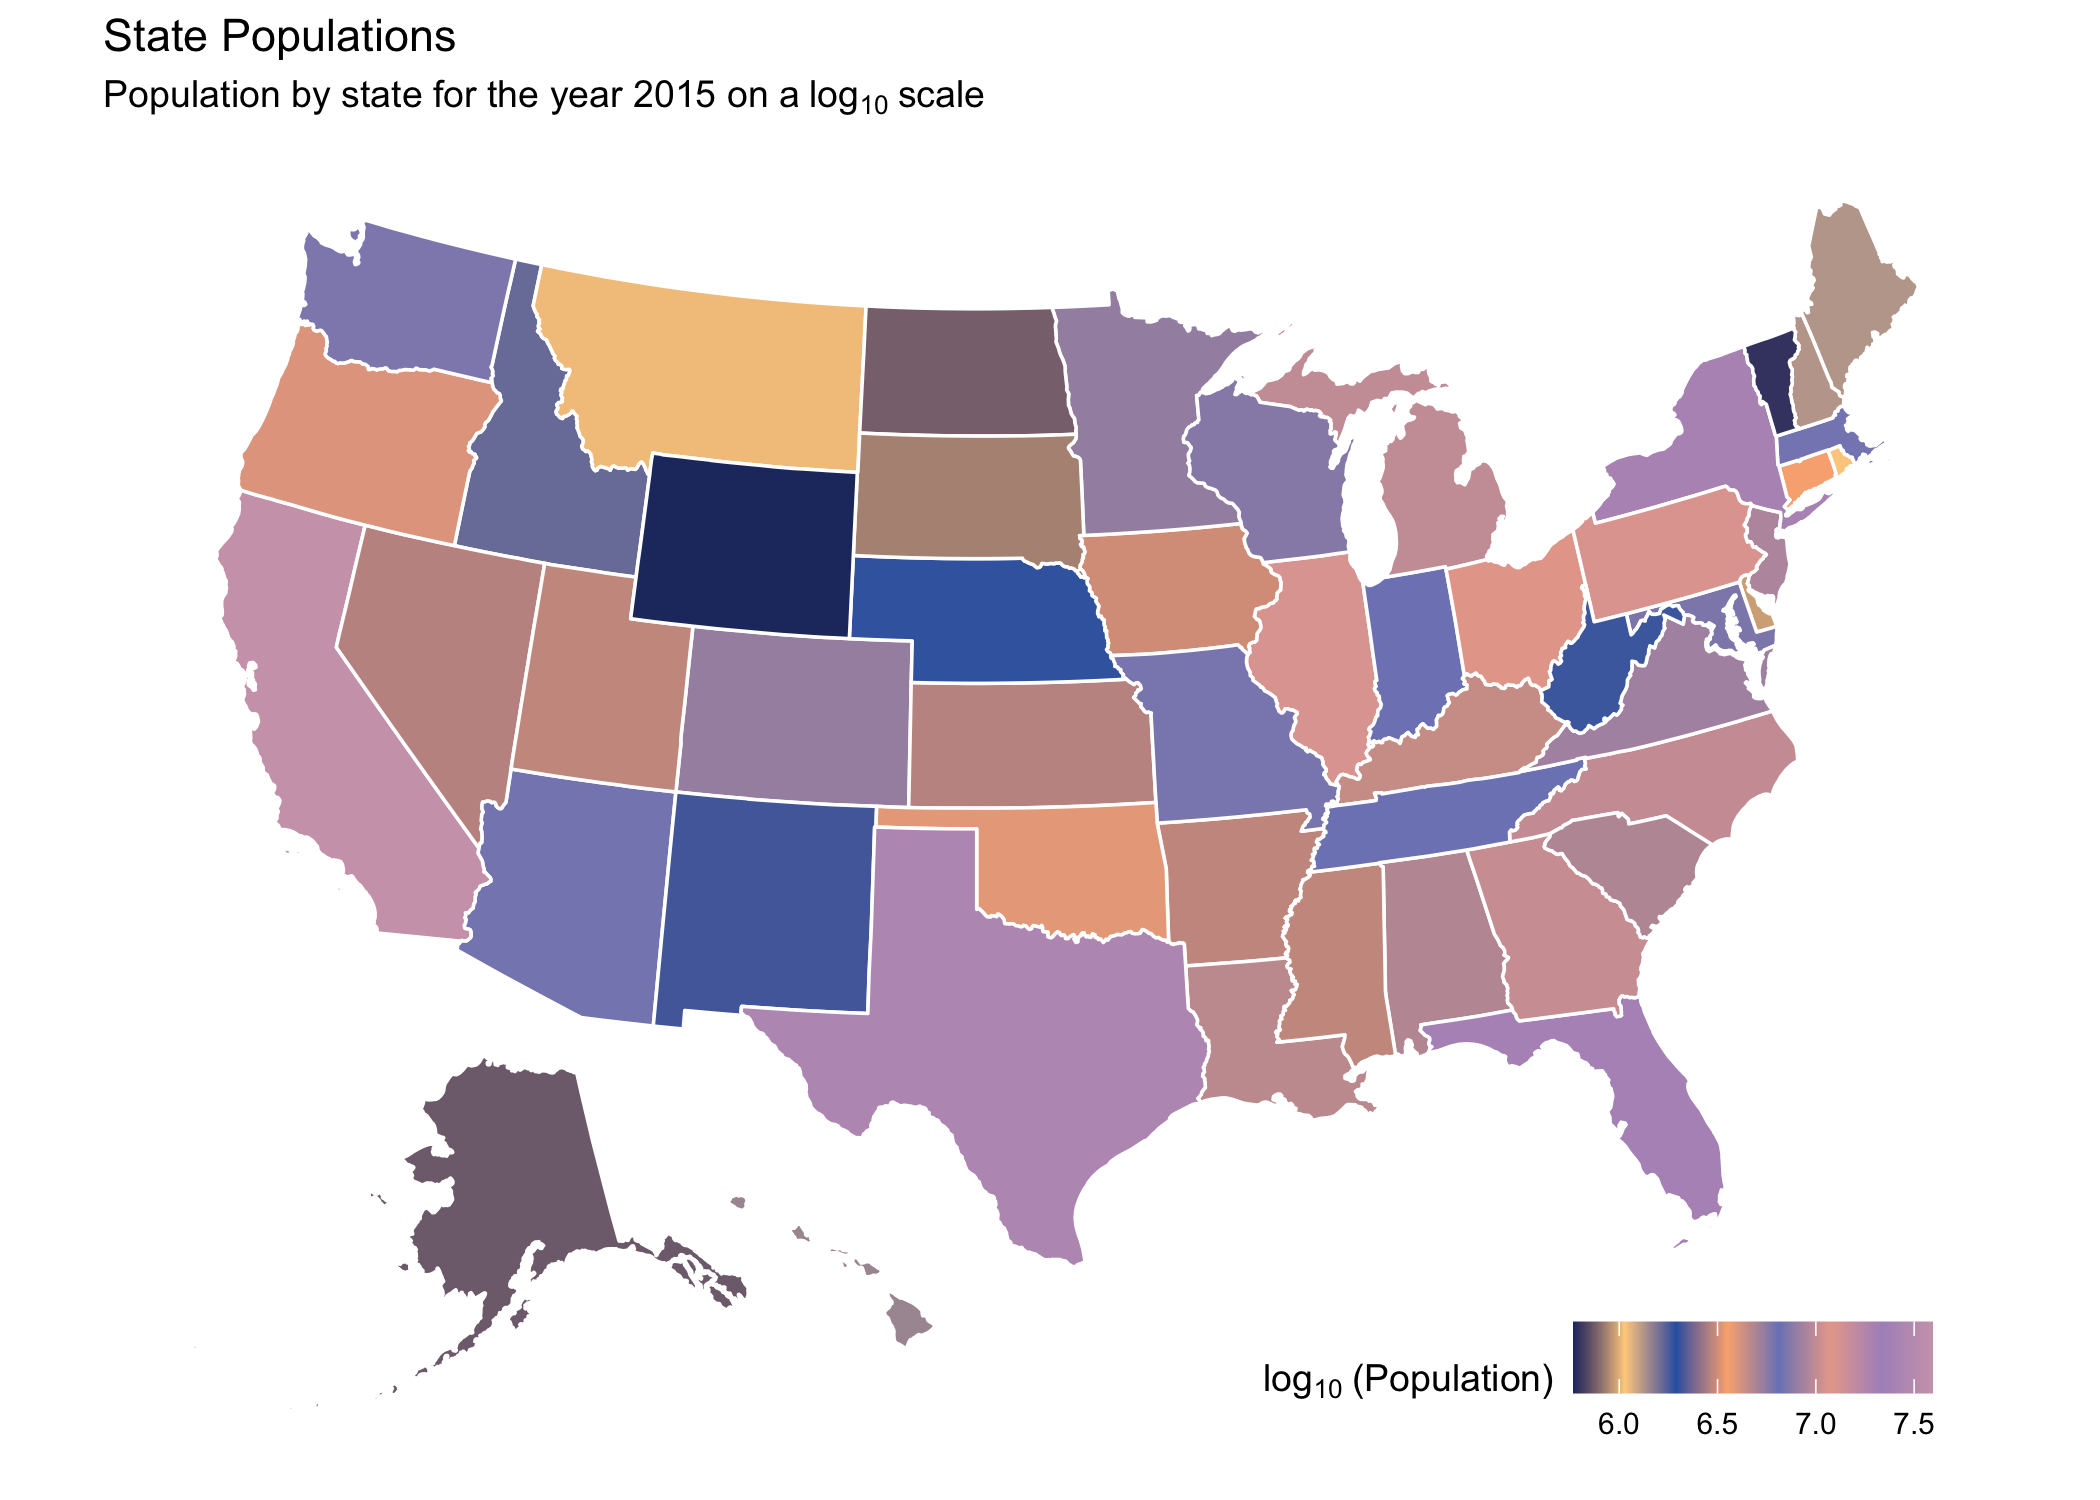
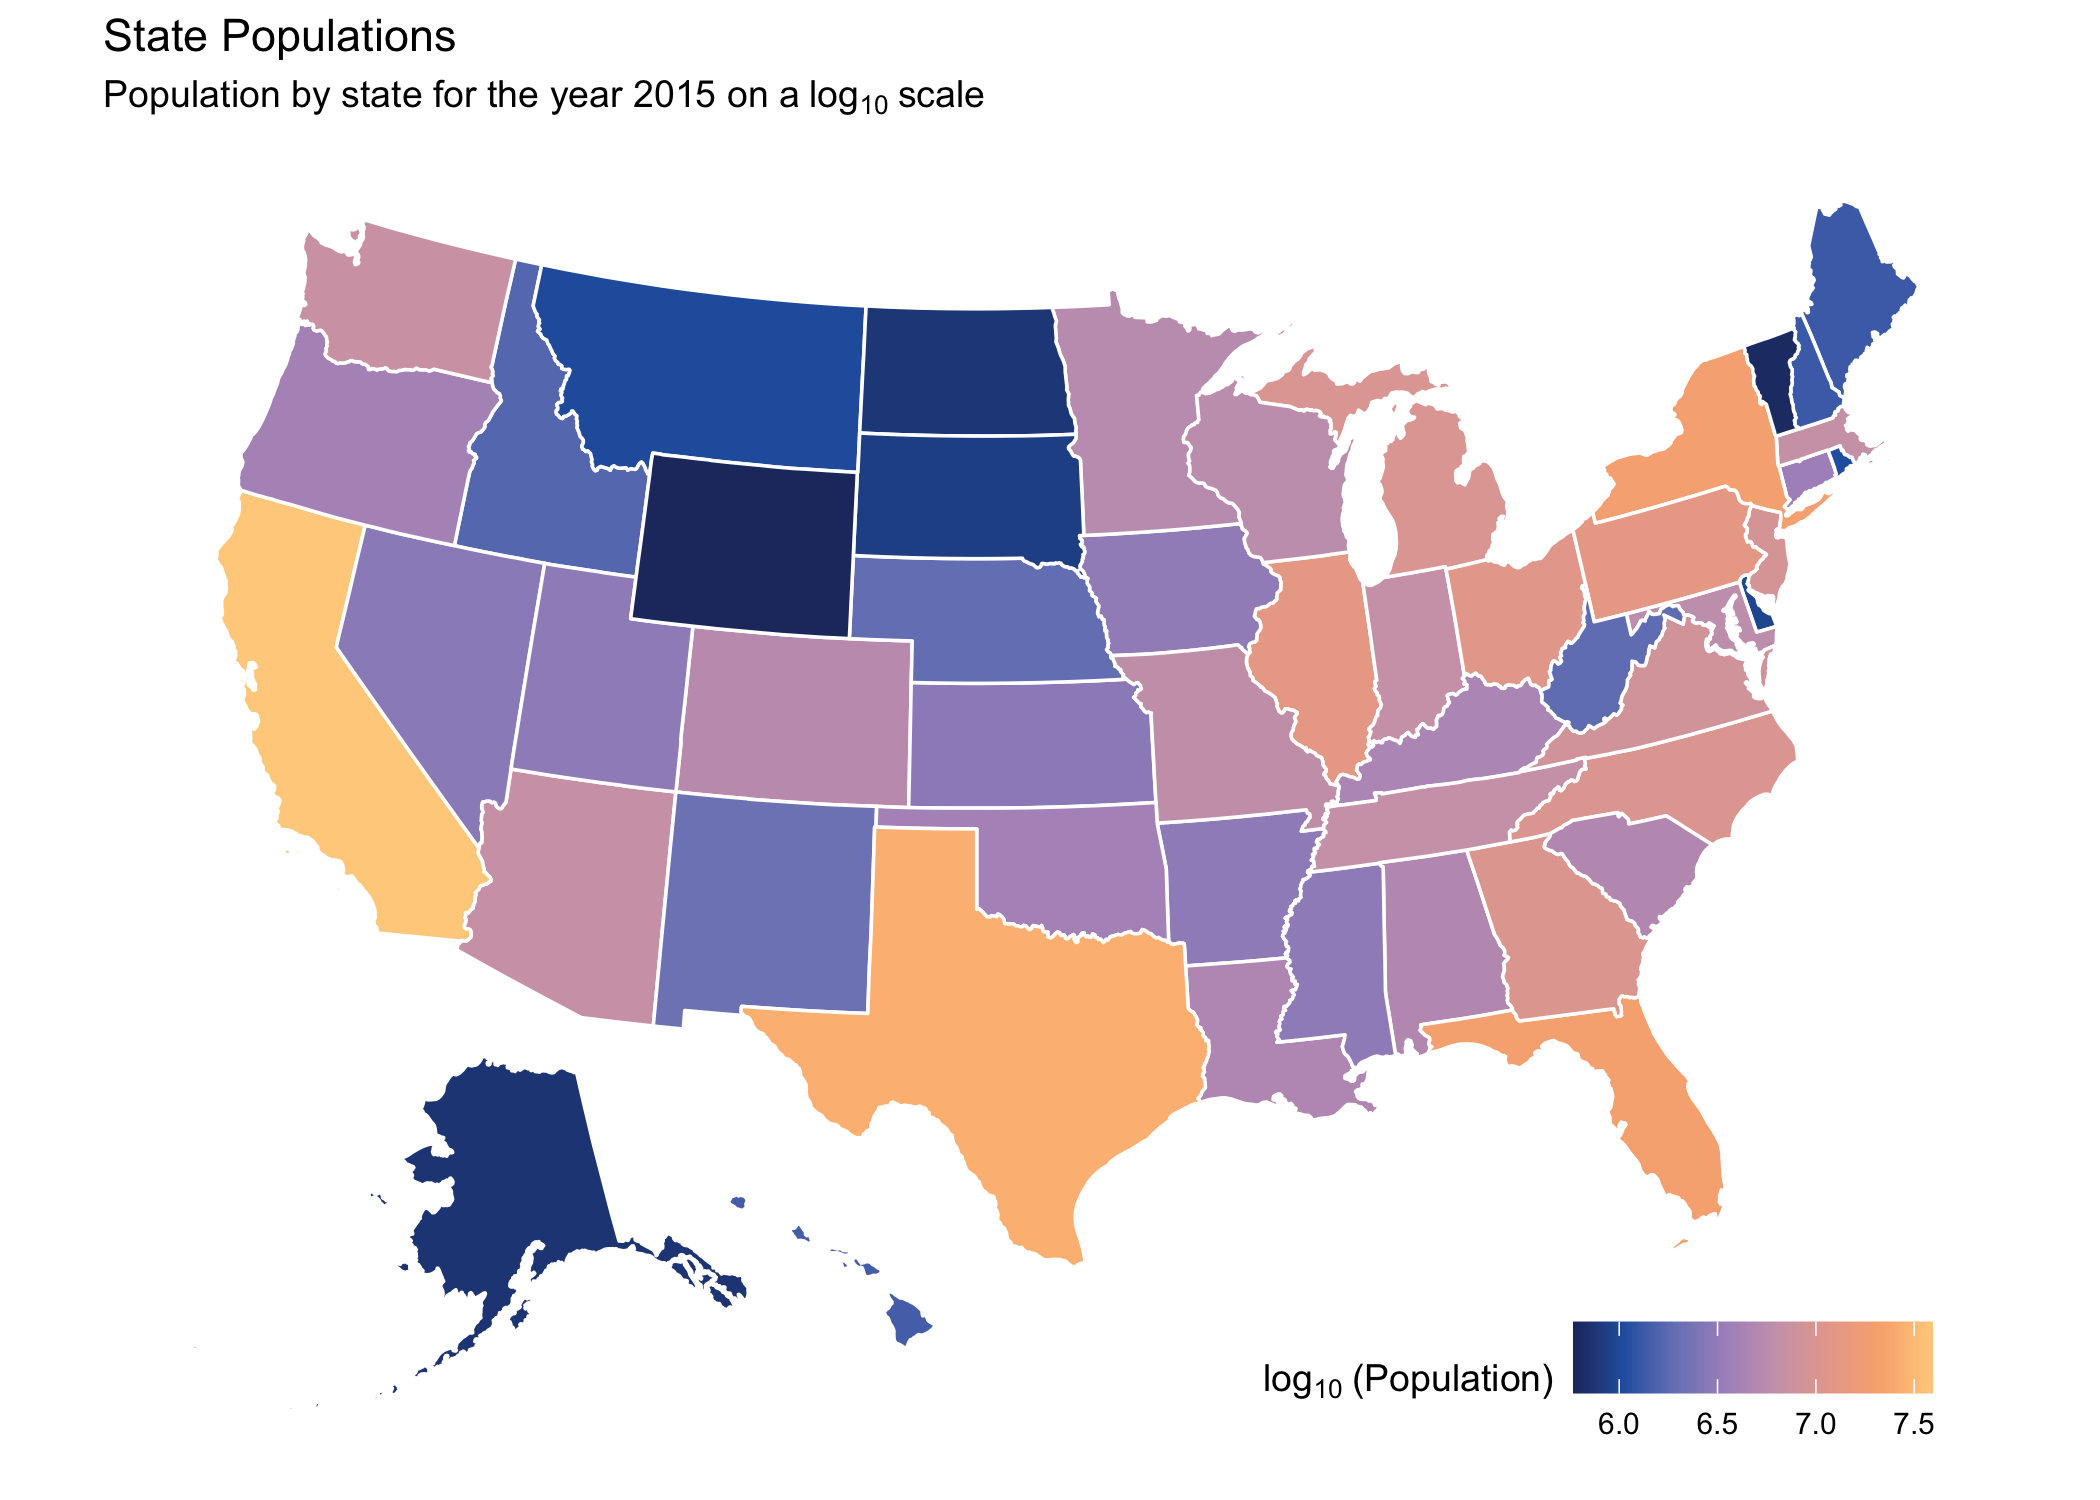
Refixed brewer

diff --git a/README.md b/README.md
@@ -125,7 +125,7 @@ WB_brewer("Opposites", n = 5, direction = 1, override.order = FALSE, type="discr
 ![](man/figures/README-WBbrewer-2.png)<!-- -->
 
 ``` r
-WB_brewer("GustavoTheShyGhost1", n = 20,type="continuous")
+WB_brewer("GustavoTheShyGhost2", n = 20,type="continuous")
 ```
 
 ![](man/figures/README-WBbrewer-3.png)<!-- -->
@@ -185,7 +185,7 @@ ggplot(mtcars, aes(x = disp,y = wt, fill= mpg))+
 
 ggplot(diamonds, aes(x = price, fill = color))+
   geom_density(position="stack", color = "white")+
-  scale_fill_WB_d("CapsForSale")+
+  scale_fill_WB_d("CapsForSale", override.order = TRUE)+
   theme_classic()
 ```
 
